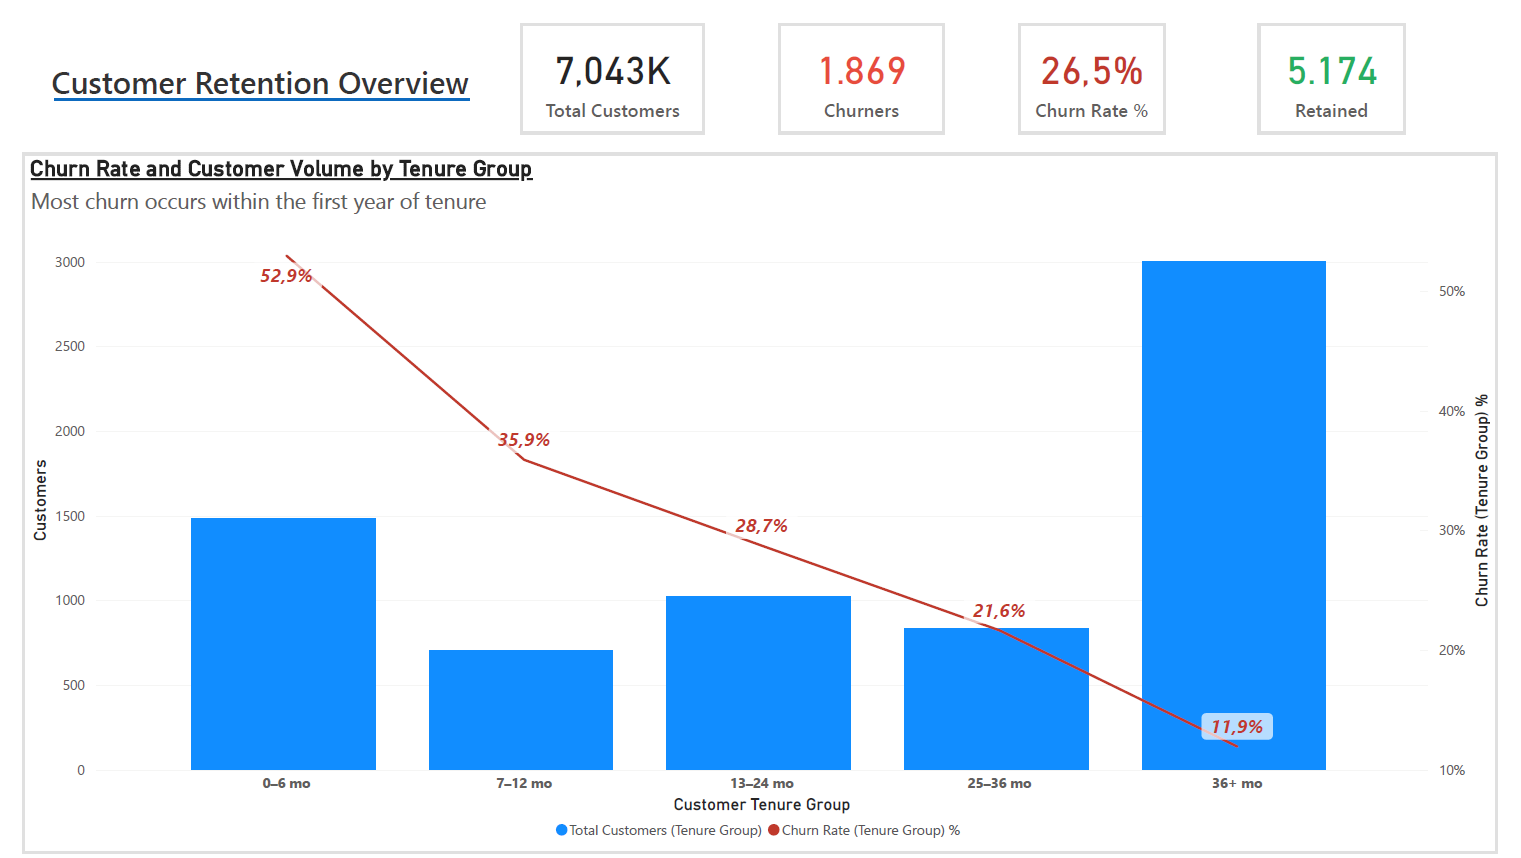
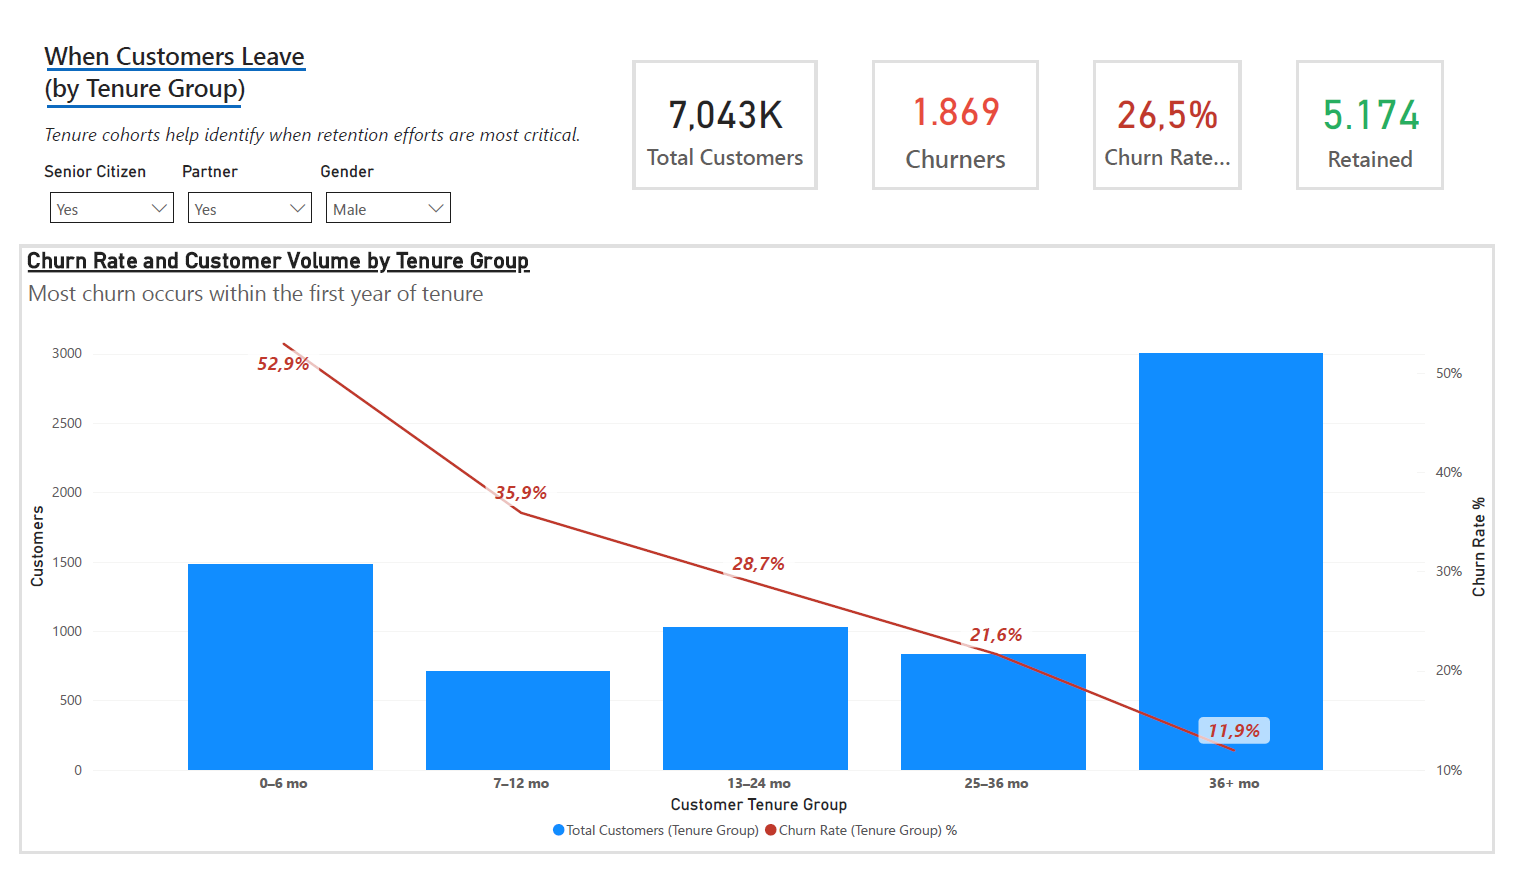
finalizing

diff --git a/docs/README.md b/docs/README.md
@@ -78,42 +78,23 @@ even if their standalone impact is moderate.
 
 ---
 
-## 📈 Power BI Dashboard Overview  
+## 📊 Power BI Dashboards
 
-### 1⃣ Customer Retention Overview  
+### 1⃣ When Customers Leave (By Tenure Group)
+![When Customers Leave](visuals/Customer_Retention_Overview.png)
+> **Insight:** Most churn occurs within the first year of tenure — retention should prioritize early-stage customers.
 
-![Customer Retention Overview](visuals/Customer_Retention_Overview.png)
+---
 
-- <ins>KPIs</ins>: Total Customers, Churners, Churn Rate %, Retained  
+### 2⃣ Who’s More Likely to Leave (By Customer Segment)
+![Who’s More Likely to Leave](visuals/Customer_Risk_Overview.png)
+> **Insight:** High-risk customers represent 8% of the base but churn at over 70%, especially those on short-term contracts or without tech support.
 
-- <ins>Combo chart</ins>: Churn % vs Customer volume by tenure bucket  
+---
 
-&nbsp; → *Insight:* Early churn is the main challenge  
-
-### 2⃣ Customer Risk Overview  
-
-![Customer Risk Overview](visuals/Customer_Risk_Overview.png)
-
-- <ins>Donut chart</ins>: Risk bucket distribution  
-
-- <ins>Combo chart</ins>: Churn % vs Risk level  
-
-&nbsp; → *Insight:* High-risk customers churn ≈ 71 %, 8× higher than low risk  
-
-### 3⃣ Risk Drivers & Interventions  
-
-![Risk Drivers & Interventions](visuals/Risk_Drivers_&_Interventions.png)
-
-- <ins>Slicers</ins>: **Senior Citizen**, **Partner**, **Gender**  
-
-- <ins>Charts</ins>:  
-
-&nbsp; - Tech Support vs Churn %  
-
-&nbsp; - Contract Type vs Churn %  
-
-&nbsp; → *Insight:* Month-to-month + no tech support = highest churn likelihood  
-
+### 3⃣ How to Retain Them (Intervention Opportunities)
+![How to Retain Them](visuals/Risk_Drivers_&_Interventions.png)
+> **Insight:** Retention uplift is most achievable by extending contracts and offering proactive tech support to high-risk customers.
 ---
 
 ## 🧮 Power BI Measures
